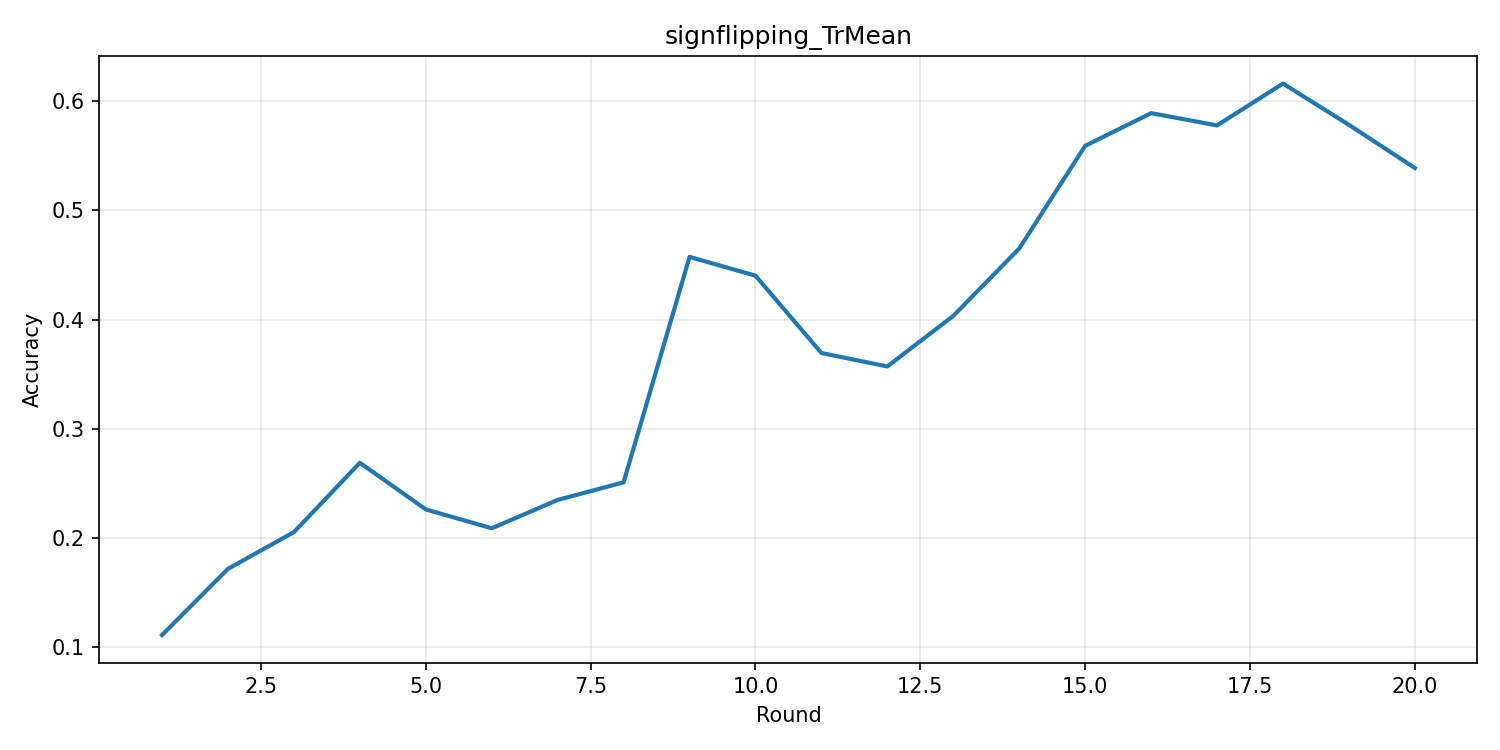
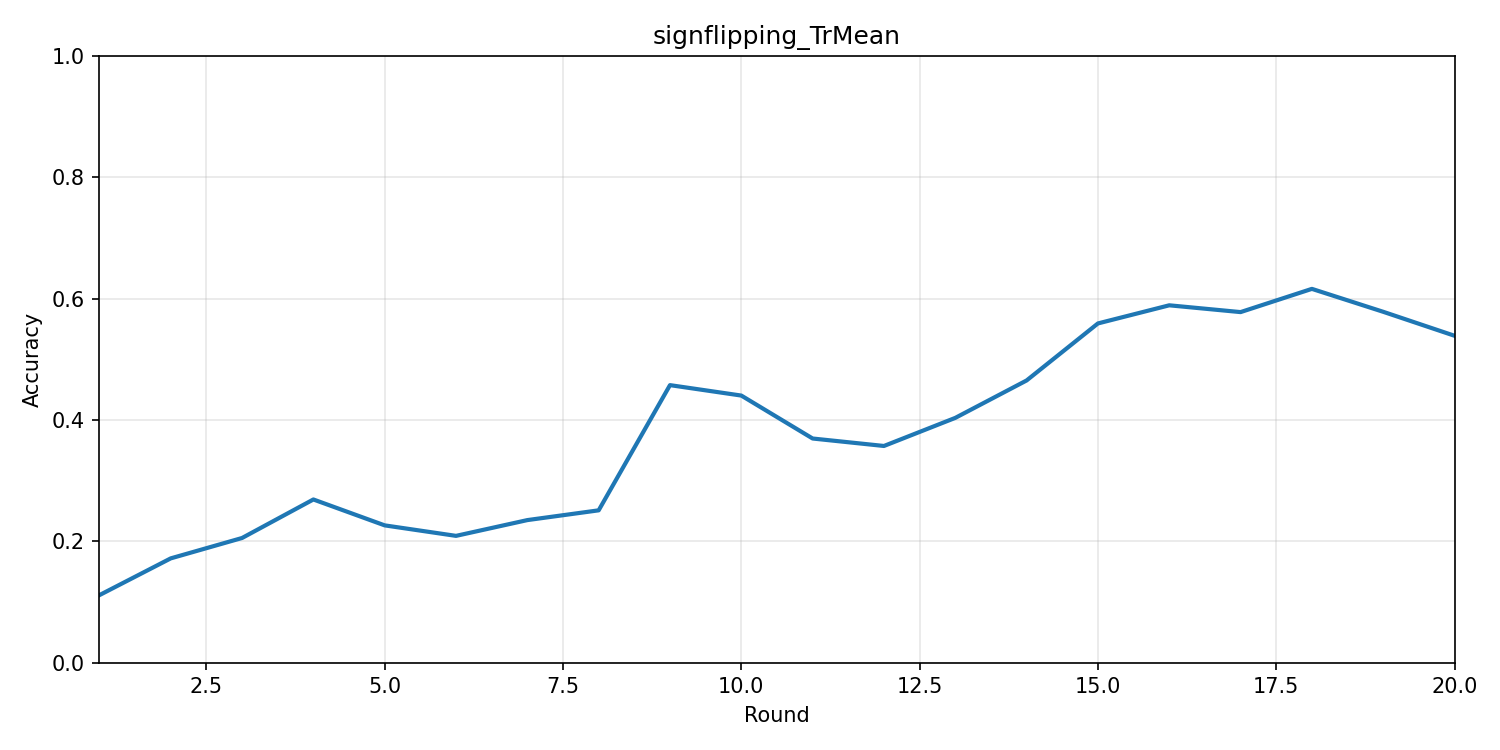
schema avec la meme echelle

diff --git a/code/regenerer_graphiques.py b/code/regenerer_graphiques.py
@@ -14,6 +14,8 @@ COMPARISON_DIR = PROJECT_ROOT / "code" / "resultats_experiences" / "comparaison"
 
 def plot_per_scenario(df: pd.DataFrame) -> None:
     PLOTS_DIR.mkdir(parents=True, exist_ok=True)
+    round_max = int(df["round"].max()) if not df.empty else 1
+    x_max = max(round_max, 2)
 
     for scenario_name, group in df.groupby("scenario"):
         ordered = group.sort_values("round")
@@ -22,6 +24,8 @@ def plot_per_scenario(df: pd.DataFrame) -> None:
         ax.set_xlabel("Round")
         ax.set_ylabel("Accuracy")
         ax.set_title(scenario_name)
+        ax.set_xlim(1, x_max)
+        ax.set_ylim(0.0, 1.0)
         ax.grid(True, alpha=0.3)
         fig.tight_layout()
         fig.savefig(PLOTS_DIR / f"{scenario_name}.png", dpi=150)
@@ -31,6 +35,8 @@ def plot_per_scenario(df: pd.DataFrame) -> None:
 def plot_comparison(df: pd.DataFrame) -> None:
     COMPARISON_DIR.mkdir(parents=True, exist_ok=True)
     fig, ax = plt.subplots(figsize=(14, 8))
+    round_max = int(df["round"].max()) if not df.empty else 1
+    x_max = max(round_max, 2)
 
     for scenario_name, group in df.groupby("scenario", sort=False):
         ordered = group.sort_values("round")
@@ -50,6 +56,8 @@ def plot_comparison(df: pd.DataFrame) -> None:
     ax.set_xlabel("Round")
     ax.set_ylabel("Accuracy")
     ax.set_title("Comparaison de tous les scénarios - Accuracy")
+    ax.set_xlim(1, x_max)
+    ax.set_ylim(0.0, 1.0)
     ax.grid(True, alpha=0.3)
     ax.legend(fontsize=9, loc="best")
     fig.tight_layout()

diff --git a/code/moteur_experiences.py b/code/moteur_experiences.py
@@ -18,7 +18,7 @@ from byzfl.utils.misc import set_random_seed
 PROJECT_ROOT = Path(__file__).resolve().parent.parent
 CODE_DIR = PROJECT_ROOT / "code"
 CONFIG_DIR = CODE_DIR / "configurations_experiences"
-DEFAULT_COMMON_CONFIG = CONFIG_DIR / "common.json"
+DEFAULT_COMMON_CONFIG = CONFIG_DIR / "commun.json"
 DEFAULT_SCENARIO_INDEX = CONFIG_DIR / "scenario_index.json"
 
 DATASET_SPECS = {
@@ -234,6 +234,8 @@ def plot_records(records: list[dict[str, Any]], output_dir: Path) -> None:
     plots_dir = output_dir / "graphiques"
     plots_dir.mkdir(parents=True, exist_ok=True)
     df = pd.DataFrame(records)
+    round_max = int(df["round"].max()) if not df.empty else 1
+    x_max = max(round_max, 2)
 
     for scenario_name, group in df.groupby("scenario"):
         fig, ax = plt.subplots(figsize=(10, 5))
@@ -242,6 +244,8 @@ def plot_records(records: list[dict[str, Any]], output_dir: Path) -> None:
         ax.set_xlabel("Round")
         ax.set_ylabel("Accuracy")
         ax.set_title(scenario_name)
+        ax.set_xlim(1, x_max)
+        ax.set_ylim(0.0, 1.0)
         ax.grid(True, alpha=0.3)
 
         fig.tight_layout()

diff --git a/code/distributeur_une_classe_par_client/comparaison/comparer_distributions.py b/code/distributeur_une_classe_par_client/comparaison/comparer_distributions.py
@@ -204,6 +204,7 @@ def plot_comparison(df: pd.DataFrame, output_path: Path) -> None:
         axes = [axes]
 
     max_value = int(df["sample_count"].max()) if not df.empty else 1
+    max_clients = int(df["client_id"].max()) if not df.empty else 0
 
     last_image = None
     for axis, distribution_name in zip(axes, distributions):
@@ -214,6 +215,8 @@ def plot_comparison(df: pd.DataFrame, output_path: Path) -> None:
         last_image = axis.imshow(matrix.values, aspect="auto", cmap="Blues", vmin=0, vmax=max_value)
         axis.set_title(distribution_name)
         axis.set_xlabel("Classe")
+        axis.set_xlim(-0.5, NUM_CLASSES - 0.5)
+        axis.set_ylim(max_clients + 0.5, -0.5)
         axis.set_xticks(range(NUM_CLASSES))
         axis.set_xticklabels(range(NUM_CLASSES))
         axis.set_yticks(range(matrix.shape[0]))

diff --git a/code/experiences_avec_moyenne/moyenne_experiences.py b/code/experiences_avec_moyenne/moyenne_experiences.py
@@ -120,6 +120,8 @@ def aggregate_mean(df: pd.DataFrame) -> pd.DataFrame:
 
 def plot_average_curve(mean_df: pd.DataFrame, output_path: Path) -> None:
     fig, ax = plt.subplots(figsize=(10, 5))
+    round_max = int(mean_df["round"].max()) if not mean_df.empty else 1
+    x_max = max(round_max, 2)
 
     for scenario_name, group in mean_df.groupby("base_scenario", sort=False):
         ordered = group.sort_values("round")
@@ -134,6 +136,8 @@ def plot_average_curve(mean_df: pd.DataFrame, output_path: Path) -> None:
     ax.set_xlabel("Round")
     ax.set_ylabel("Accuracy moyenne")
     ax.set_title("Courbe moyenne sur plusieurs seeds")
+    ax.set_xlim(1, x_max)
+    ax.set_ylim(0.0, 1.0)
     ax.grid(True, alpha=0.3)
     ax.legend(loc="best")
     fig.tight_layout()

diff --git a/code/comparer_experiences.py b/code/comparer_experiences.py
@@ -37,6 +37,8 @@ def build_label(row: pd.Series) -> str:
 
 def plot_metric(df: pd.DataFrame, output_path: Path) -> None:
     fig, ax = plt.subplots(figsize=(14, 8))
+    round_max = int(df["round"].max()) if not df.empty else 1
+    x_max = max(round_max, 2)
 
     for scenario_name, group in df.groupby("scenario", sort=False):
         ordered = group.sort_values("round")
@@ -57,6 +59,8 @@ def plot_metric(df: pd.DataFrame, output_path: Path) -> None:
     ax.set_xlabel("Round")
     ax.set_ylabel("Accuracy")
     ax.set_title("Comparaison de tous les scénarios - Accuracy")
+    ax.set_xlim(1, x_max)
+    ax.set_ylim(0.0, 1.0)
     ax.grid(True, alpha=0.3)
     ax.legend(fontsize=9, loc="best")
     fig.tight_layout()
